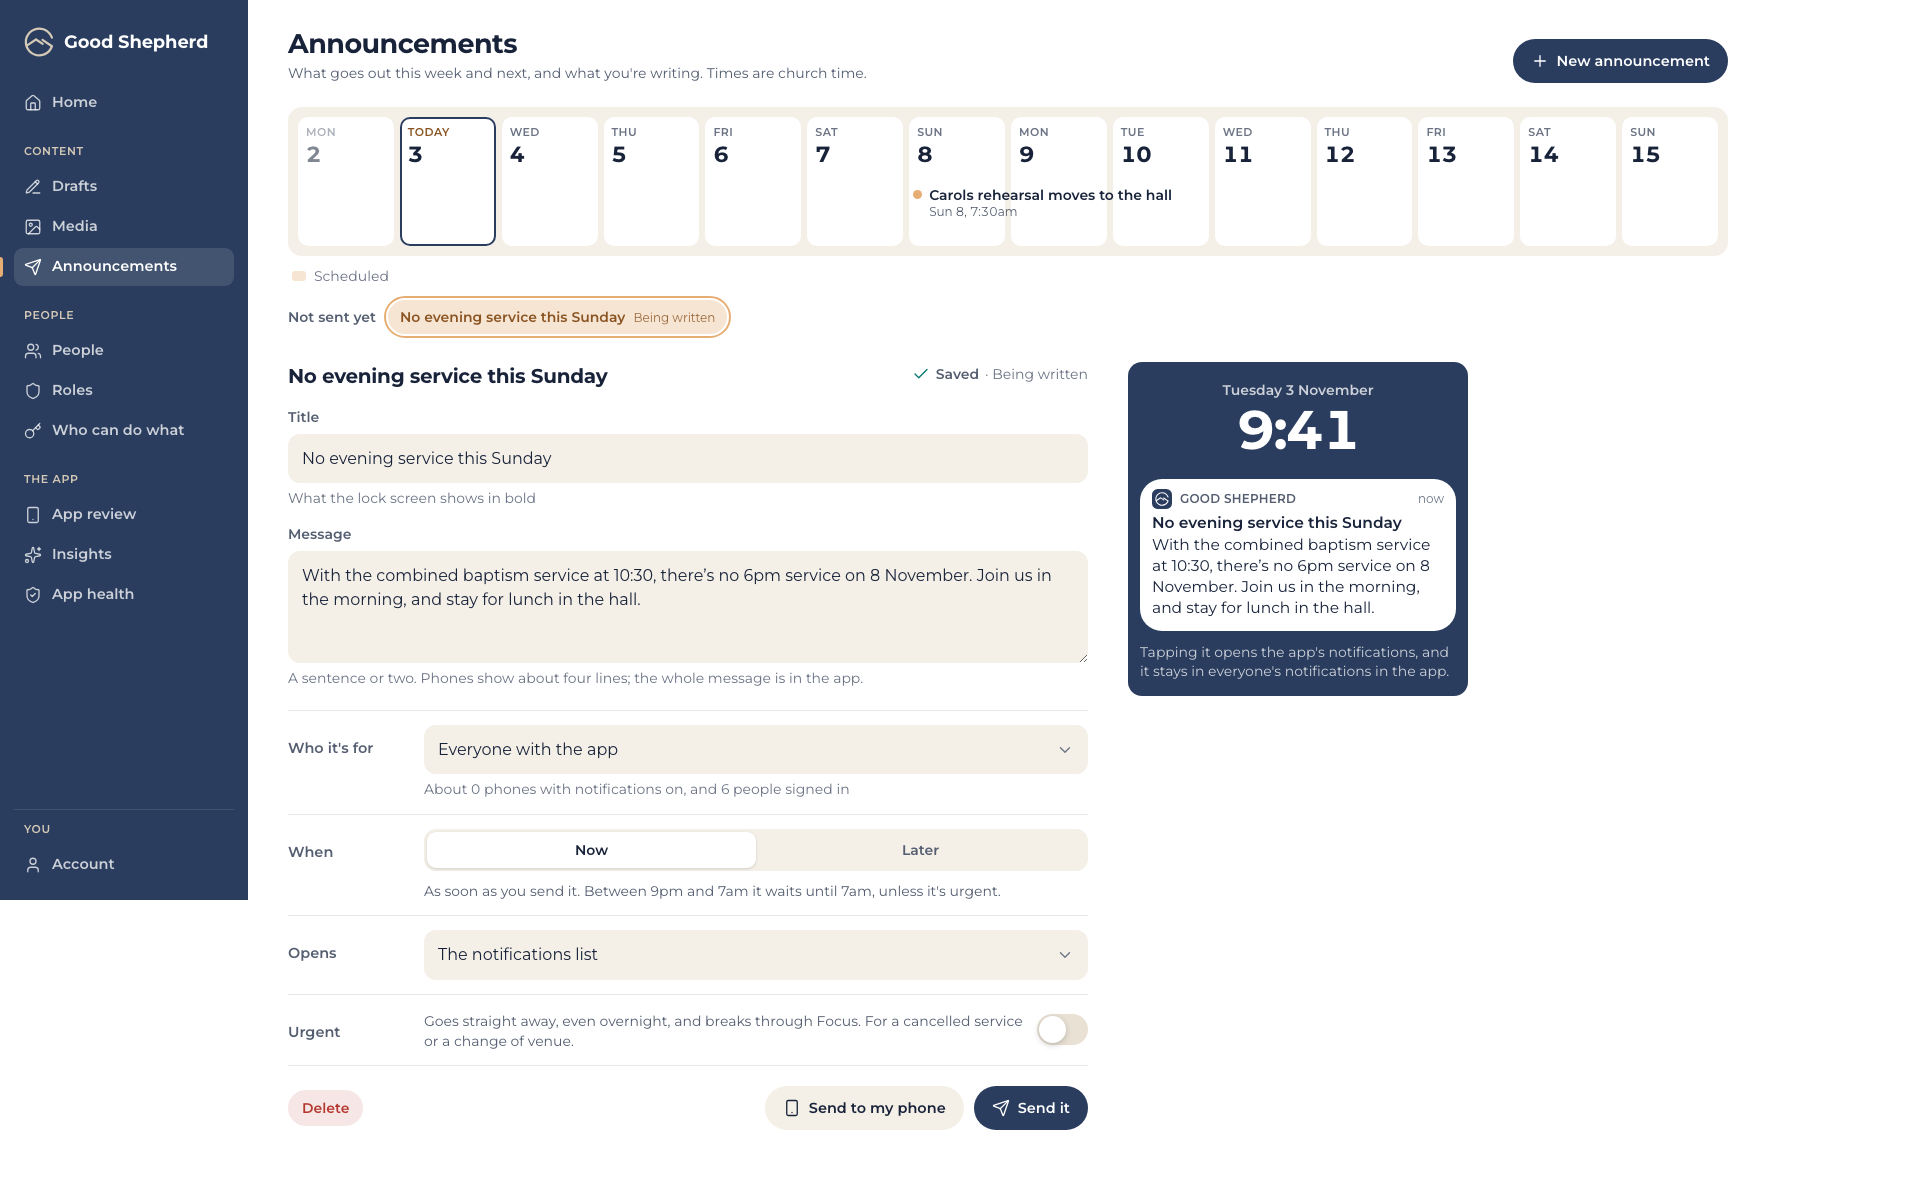
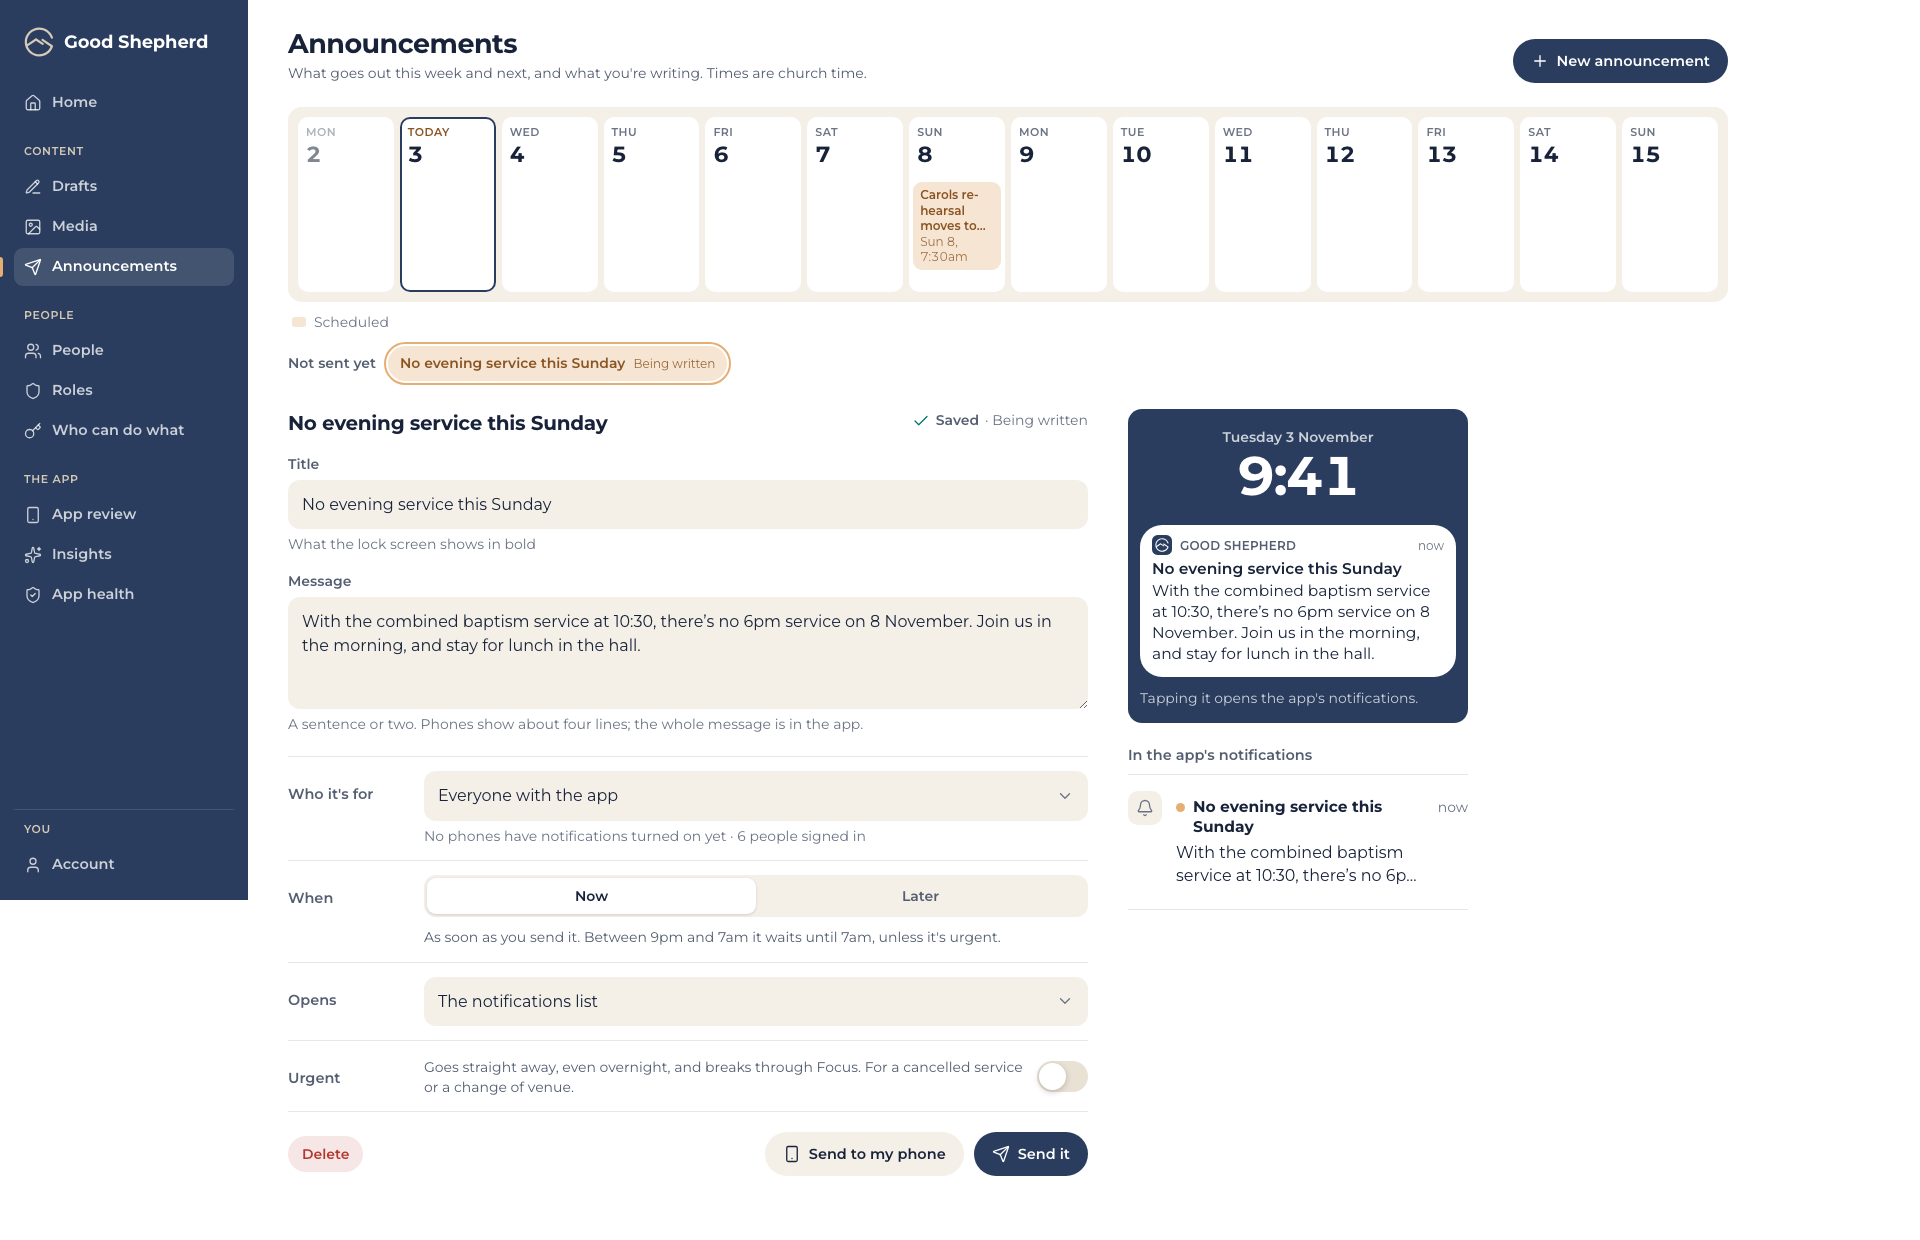
Finish review fixes: capsules in their day, the live this-one capsule, the inbox row beside the proof
Rail items are capsules in their own day again (scheduled in marker, sent
in primary), and choosing a later time puts the announcement on its day
as you choose it. The inbox row sits under the lock-screen proof. Home
shows a scheduled announcement as not out yet. A reach of 0 says so
plainly. Wrapped unread titles line up beside their dot, and a desktop
dialog has no grabber.

Claude-Session: https://claude.ai/code/session_01KqANXesNQxoNSTjNtojCoA

diff --git a/src/Platform/GSBC.ChurchApp.Platform.Ui/wwwroot/css/ui.css b/src/Platform/GSBC.ChurchApp.Platform.Ui/wwwroot/css/ui.css
@@ -96,7 +96,8 @@
   font-variant-numeric: tabular-nums;
 }
 .row__unread { display: inline-block; width: 9px; height: 9px; margin-right: 8px; border-radius: var(--radius-full); background: var(--marker); vertical-align: 0.08em; }
-.row--unread .row__title { font-weight: 700; }
+.row--unread .row__title { position: relative; padding-left: 17px; font-weight: 700; }
+.row--unread .row__unread { position: absolute; top: 0.42em; left: 0; margin: 0; }
 .row--read .row__title { font-weight: 500; }
 
 .masthead {
@@ -246,6 +247,7 @@ button.row:active, a.row:active { background: var(--line); }
 .sheet__actions { display: grid; gap: 10px; margin-top: 22px; }
 @media (min-width: 720px) {
   .sheet { left: 50%; right: auto; bottom: 50%; width: min(560px, 100% - 48px); border-radius: var(--radius-sheet); transform: translate(-50%, 50%); animation-name: fade; }
+  .sheet:not(.sheet--cover) > .sheet__grabber { visibility: hidden; height: 0; margin-bottom: 8px; }
 }
 @keyframes sheet-up { from { transform: translateY(100%); } }
 .sheet--cover { padding-top: 0; }
@@ -765,15 +767,10 @@ button.row:active, a.row:active { background: var(--line); }
 .office-rail__swatch { width: 14px; height: 10px; border-radius: 3px; }
 
 
-.office-rail__span--moment { justify-self: start; max-width: 100%; padding: 4px 8px 4px 0; background: none; color: var(--ink); }
-.office-rail__span--moment .office-rail__span-when { color: var(--ink-2); opacity: 1; padding-left: 16px; }
-.office-rail__dot { display: inline-block; width: 9px; height: 9px; margin-right: 7px; border-radius: var(--radius-full); vertical-align: 0.05em; }
-.office-rail__span--everyone .office-rail__dot { background: var(--primary); }
-.office-rail__span--layer .office-rail__dot { background: var(--accent); }
-.office-rail__span--draft .office-rail__dot { background: var(--marker); }
+.office-rail__span--moment .office-rail__span-title { display: -webkit-box; white-space: normal; overflow-wrap: break-word; hyphens: auto; -webkit-box-orient: vertical; -webkit-line-clamp: 3; }
 .office-rail--fortnight .office-rail__grid { grid-template-columns: repeat(var(--days), minmax(56px, 1fr)); column-gap: 6px; min-height: 0; overflow-x: auto; }
 .office-rail--fortnight .office-rail__day { padding: 8px 8px 10px; }
-.office-rail--fortnight .office-rail__span { margin: 0 4px 6px; }
+.office-rail--fortnight .office-rail__span { margin: 0 4px 6px; padding: 5px 7px; font-size: var(--text-pill); }
 
 @media (max-width: 1228px) {
     .office-rail:not(.office-rail--fortnight) .office-rail__grid { grid-template-columns: repeat(var(--days, 7), minmax(84px, 1fr)); overflow-x: auto; }

diff --git a/src/Features/Notifications/GSBC.ChurchApp.Features.Notifications.Client/wwwroot/css/notifications.css b/src/Features/Notifications/GSBC.ChurchApp.Features.Notifications.Client/wwwroot/css/notifications.css
@@ -34,6 +34,8 @@
 .announcement-desk__actions { display: flex; flex-wrap: wrap; align-items: center; gap: 10px; padding-top: 4px; }
 .announcement-desk__spacer { flex: 1; }
 .announcement-desk__proof { position: sticky; top: 24px; }
+.announcement-desk__label { margin: 22px 0 8px; color: var(--ink-2); font-size: var(--text-label); font-weight: 600; }
+.announcement-desk__proof .row__subtitle { display: -webkit-box; overflow: hidden; -webkit-box-orient: vertical; -webkit-line-clamp: 2; }
 
 .announcement-checks { display: grid; margin: 6px 0 0; border-top: 1px solid var(--line); }
 .announcement-check { display: grid; grid-template-columns: 120px minmax(0, 1fr); gap: 16px; padding: 14px 0; border-bottom: 1px solid var(--line); }

diff --git a/src/Features/Notifications/GSBC.ChurchApp.Features.Notifications.Admin/AnnouncementsOfficeWeek.cs b/src/Features/Notifications/GSBC.ChurchApp.Features.Notifications.Admin/AnnouncementsOfficeWeek.cs
@@ -25,7 +25,7 @@ internal sealed class AnnouncementsOfficeWeek(AnnouncementsClient announcements,
             : [];
         List<OfficeSpan> spans = all
             .Where(announcement => announcement.State == Scheduled && announcement.SendAt is { } at && at >= from && at < until)
-            .Select(announcement => new OfficeSpan(announcement.Title, announcement.SendAt!.Value, announcement.SendAt.Value, Href(announcement), OfficeSpanKind.Everyone))
+            .Select(announcement => new OfficeSpan(announcement.Title, announcement.SendAt!.Value, announcement.SendAt.Value, Href(announcement), OfficeSpanKind.Draft))
             .ToList();
         return new OfficeWeek(tasks, spans);
     }
